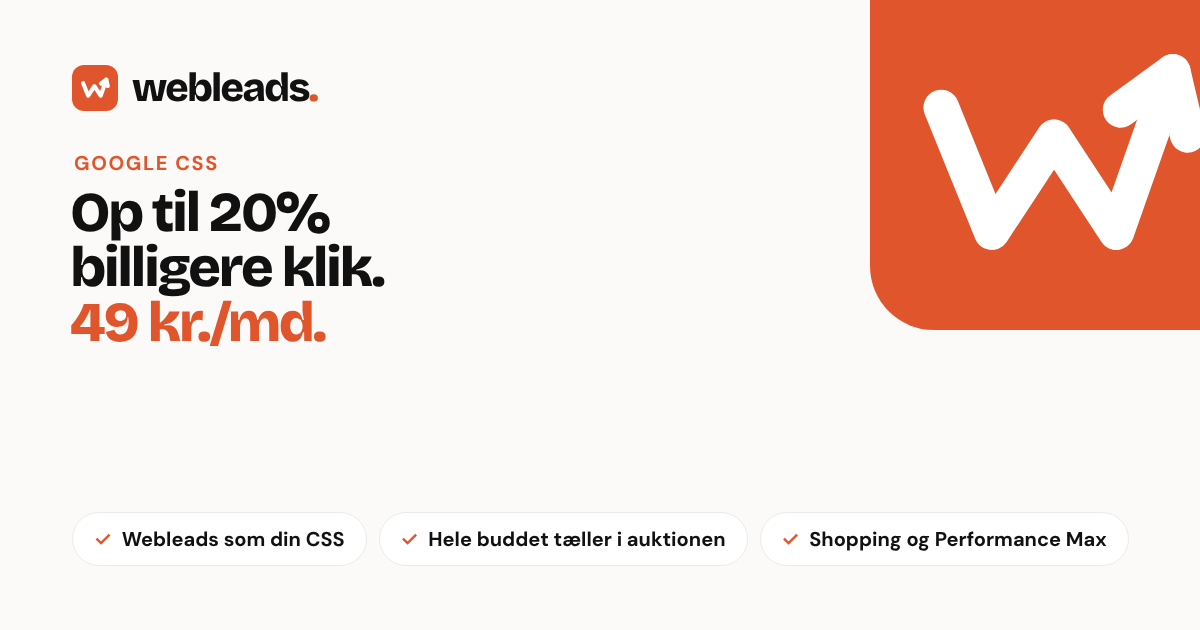
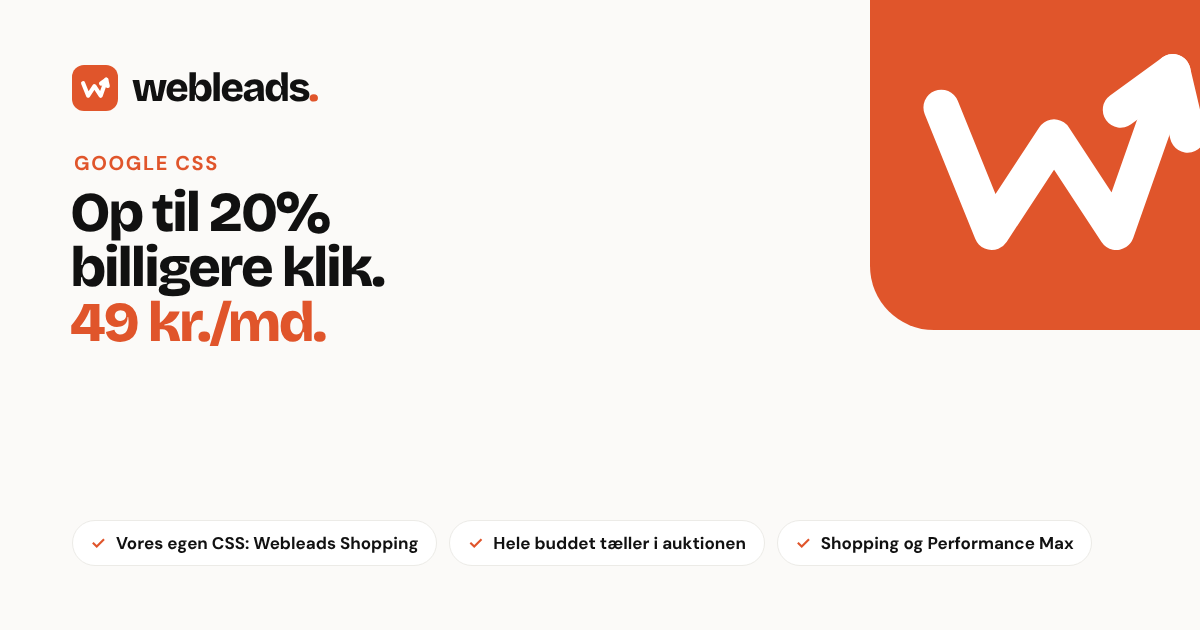
Google CSS: vores egen CSS hedder Webleads Shopping (shopping.webleads.dk)
- Annoncen viser »Af Webleads Shopping«, og knappen hedder »Webleads Shopping«.
- Teksterne siger »vores egen CSS, Webleads Shopping«. Spørgsmålet »Hvad er en CSS?« linker til shopping.webleads.dk.
- Kort, bold, Shopping-siden, delingsbillede og README er opdateret.

Claude-Session: https://claude.ai/code/session_01R47vFHCEwp4wD7wmtL9Xui

Changed region(s): [[0.0617, 0.8444, 0.6167, 0.8746], [0.6475, 0.8444, 0.925, 0.8746]]

diff --git a/services/google-css/index.html b/services/google-css/index.html
@@ -5,13 +5,13 @@
 <meta charset="utf-8">
 <meta name="viewport" content="width=device-width, initial-scale=1">
 <title>Google CSS · Op til 20% billigere klik på Google Shopping · Webleads</title>
-<meta name="description" content="Lad dine Google Shopping-annoncer gå gennem Webleads som CSS i stedet for Googles egen. Så tæller hele dit bud, og klikket kan blive op til 20% billigere. 49 kr. om måneden.">
+<meta name="description" content="Lad dine Google Shopping-annoncer gå gennem vores egen CSS, Webleads Shopping, i stedet for Googles egen. Så tæller hele dit bud, og klikket kan blive op til 20% billigere. 49 kr. om måneden.">
 <meta name="robots" content="index, follow, max-image-preview:large, max-snippet:-1">
 <meta name="author" content="Webleads">
 <meta name="theme-color" content="#fbfaf8">
 <!-- Share links (Facebook, LinkedIn, Messenger, SMS, Slack, X) -->
 <meta property="og:title" content="Google CSS · Op til 20% billigere klik på Google Shopping · Webleads">
-<meta property="og:description" content="Lad dine Google Shopping-annoncer gå gennem Webleads som CSS i stedet for Googles egen. Så tæller hele dit bud, og klikket kan blive op til 20% billigere. 49 kr. om måneden.">
+<meta property="og:description" content="Lad dine Google Shopping-annoncer gå gennem vores egen CSS, Webleads Shopping, i stedet for Googles egen. Så tæller hele dit bud, og klikket kan blive op til 20% billigere. 49 kr. om måneden.">
 <meta property="og:type" content="website">
 <meta property="og:locale" content="da_DK">
 <meta property="og:url" content="https://webleads.dk/services/google-css">
@@ -24,7 +24,7 @@
 <meta property="og:image:alt" content="Webleads: Google CSS. Op til 20% billigere klik på Google Shopping.">
 <meta name="twitter:card" content="summary_large_image">
 <meta name="twitter:title" content="Google CSS · Op til 20% billigere klik på Google Shopping · Webleads">
-<meta name="twitter:description" content="Lad dine Google Shopping-annoncer gå gennem Webleads som CSS i stedet for Googles egen. Så tæller hele dit bud, og klikket kan blive op til 20% billigere. 49 kr. om måneden.">
+<meta name="twitter:description" content="Lad dine Google Shopping-annoncer gå gennem vores egen CSS, Webleads Shopping, i stedet for Googles egen. Så tæller hele dit bud, og klikket kan blive op til 20% billigere. 49 kr. om måneden.">
 <meta name="twitter:image" content="https://webleads.dk/assets/og/google-css.png">
 <meta name="twitter:image:alt" content="Webleads: Google CSS. Op til 20% billigere klik på Google Shopping.">
 <link rel="canonical" href="https://webleads.dk/services/google-css">
@@ -50,7 +50,7 @@
       "@id": "https://webleads.dk/services/google-css#service",
       "name": "Google CSS",
       "serviceType": "CSS (Comparison Shopping Service) til Google Shopping",
-      "description": "Lad dine Google Shopping-annoncer gå gennem Webleads som CSS i stedet for Googles egen. Så tæller hele dit bud, og klikket kan blive op til 20% billigere. 49 kr. om måneden.",
+      "description": "Lad dine Google Shopping-annoncer gå gennem vores egen CSS, Webleads Shopping, i stedet for Googles egen. Så tæller hele dit bud, og klikket kan blive op til 20% billigere. 49 kr. om måneden.",
       "url": "https://webleads.dk/services/google-css",
       "provider": {
         "@id": "https://webleads.dk/#virksomhed"
@@ -119,7 +119,7 @@
           "name": "Hvad er en CSS?",
           "acceptedAnswer": {
             "@type": "Answer",
-            "text": "CSS står for Comparison Shopping Service, på dansk en prissammenligningstjeneste. Efter EU’s sag mod Google i 2017 bliver Shopping-annoncer i Danmark altid vist gennem en CSS. Har du ikke valgt en anden, er det Googles egen, Google Shopping. Webleads er en CSS, du kan vælge i stedet."
+            "text": "CSS står for Comparison Shopping Service, på dansk en prissammenligningstjeneste. Efter EU’s sag mod Google i 2017 bliver Shopping-annoncer i Danmark altid vist gennem en CSS. Har du ikke valgt en anden, er det Googles egen, Google Shopping. Webleads har sin egen CSS, Webleads Shopping, som du kan vælge i stedet."
           }
         },
         {
@@ -127,7 +127,7 @@
           "name": "Hvorfor bliver klikket billigere?",
           "acceptedAnswer": {
             "@type": "Answer",
-            "text": "Googles egen CSS, Google Shopping, trækker en fast procentdel fra dit bud, før det kommer med i auktionen. Med Webleads som CSS tæller hele buddet, så det samme klik kan blive billigere, eller du kan få flere klik for samme budget. Google oplyser ikke procentdelen, men branchen anslår den til op til ca. 20%."
+            "text": "Googles egen CSS, Google Shopping, trækker en fast procentdel fra dit bud, før det kommer med i auktionen. Med Webleads Shopping tæller hele buddet, så det samme klik kan blive billigere, eller du kan få flere klik for samme budget. Google oplyser ikke procentdelen, men branchen anslår den til op til ca. 20%."
           }
         },
         {
@@ -135,7 +135,7 @@
           "name": "Skal jeg lave mine kampagner om?",
           "acceptedAnswer": {
             "@type": "Answer",
-            "text": "Som regel ikke. Vi kobler den Merchant Center-konto, du har i dag, på Webleads som CSS, så din Google Ads-konto, dine kampagner og dit feed er de samme. Kræver det en ny konto, siger vi det, før vi går i gang."
+            "text": "Som regel ikke. Vi kobler den Merchant Center-konto, du har i dag, på Webleads Shopping, så din Google Ads-konto, dine kampagner og dit feed er de samme. Kræver det en ny konto, siger vi det, før vi går i gang."
           }
         },
         {
@@ -221,7 +221,7 @@
   <main>
     <section id="top" class="hero" data-sec="hero">
       <canvas class="hero__dots" data-dots aria-hidden="true"></canvas>
-      <div class="float float--a" data-float="1.4" data-rot="7" aria-hidden="true">Af Webleads</div>
+      <div class="float float--a" data-float="1.4" data-rot="7" aria-hidden="true">Af Webleads Shopping</div>
       <div class="float float--b" data-float="0.8" data-rot="-6" aria-hidden="true"><i></i>Hele buddet tæller</div>
       <div class="float float--c" data-float="2" data-rot="-9" aria-hidden="true">49 kr./md.</div>
       <div class="float float--d" data-float="1.1" data-rot="0" aria-hidden="true">
@@ -240,7 +240,7 @@
           <span class="w"><span data-word class="dim">billigere</span></span>
           <span class="w"><span data-word class="hot"><span data-underline>klik.</span></span></span>
         </h1>
-        <p class="hero__lead" data-reveal="3">Lad dine Shopping-annoncer gå gennem Webleads som CSS i stedet for Googles egen. Så tæller hele dit bud i auktionen, og det samme klik kan blive op til 20% billigere. Vi klarer skiftet.</p>
+        <p class="hero__lead" data-reveal="3">Lad dine Shopping-annoncer gå gennem vores egen CSS, Webleads Shopping, i stedet for Googles egen. Så tæller hele dit bud i auktionen, og det samme klik kan blive op til 20% billigere. Vi klarer skiftet.</p>
         <div class="hero__ctas" data-reveal="4">
           <a href="#kontakt" class="btn btn--dark" data-magnet data-burst data-roll data-event="Hero: Få en fast pris">Få en fast pris</a>
           <a href="#eksempel" class="hero__more" data-event="Hero: Se et eksempel">Se et eksempel <span>↓</span></a>
@@ -261,7 +261,7 @@
 
     <section id="eksempel" class="show show--google-css" data-sec="eksempel">
       <!-- Calculator: the same Shopping ad with and without a CSS partner. Click prices in øre (data-p0 without,
-           data-p1 with); google-css.js works out the rest. The HTML is the finished state ("Med Webleads") -->
+           data-p1 with); google-css.js works out the rest. The HTML is the finished state ("Webleads Shopping") -->
       <div class="gcss is-med" data-gcss data-p0="500" data-p1="400">
         <div class="gcss__main">
           <div class="sec-head gcss__head" data-reveal="0">
@@ -269,7 +269,7 @@
             <p class="sec-head__lead">Annoncen ser ud som i dag. Kun den lille tekst under den skifter, og det samme klik kan blive op til 20% billigere.</p>
           </div>
           <div class="gcss__stage" data-reveal="1">
-            <p class="sr-only">Eksempel på Shopping-annoncer på Google, når en kunde søger efter »duftlys i glas«. Din annonce for et duftlys fra Glødværk står først. Under den står der »Af Google«. Med Webleads som CSS står der »Af Webleads« i stedet, og resten af annoncen er den samme.</p>
+            <p class="sr-only">Eksempel på Shopping-annoncer på Google, når en kunde søger efter »duftlys i glas«. Din annonce for et duftlys fra Glødværk står først. Under den står der »Af Google«. Med Webleads Shopping står der »Af Webleads Shopping« i stedet, og resten af annoncen er den samme.</p>
             <!-- A drawing of a search page with Shopping ads: no search engine's logo, the products and shops are made up -->
             <div class="gcss-serp" data-tilt aria-hidden="true">
               <div class="glare" data-glare></div>
@@ -289,7 +289,7 @@
                     <div class="gcss-card__s"><i style="--i:#8a5a2b">G</i><span>Glødværk</span></div>
                     <div class="gcss-card__d">Gratis fragt</div>
                     <div class="gcss-card__r"><b>4,8</b><span style="--f:96%">★★★★★</span>(63)</div>
-                    <span class="gcss-by" data-gcss-by><span class="gcss-by__in"><span class="gcss-by__f">Af Google</span><span class="gcss-by__b">Af Webleads</span></span></span>
+                    <span class="gcss-by" data-gcss-by><span class="gcss-by__in"><span class="gcss-by__f">Af Google</span><span class="gcss-by__b">Af Webleads Shopping</span></span></span>
                   </div>
                   <div class="gcss-card">
                     <div class="gcss-img"><svg viewBox="0 0 200 200"><use href="#gcss-bd"/><g transform="matrix(1.18 0 0 1.18 -18 -21.6)"><use href="#gcss-jar" style="--gl:#c9d3cf;--ga:.3;--wx:#b8c6aa;--wt:#c9d5bc;--lb:#fbfaf6"/><text x="100" y="128" style="fill:#3c4a3a">SKOVBUND</text><text x="100" y="138" style="fill:#6b7869">EUKALYPTUS</text></g></svg></div>
@@ -330,10 +330,10 @@
 
         <div class="gcss__calc" data-reveal="2">
           <div class="gcss-panel">
-            <div class="seg gcss-seg" role="radiogroup" aria-label="Klikpris med Googles egen CSS eller med Webleads som CSS" data-gcss-seg>
+            <div class="seg gcss-seg" role="radiogroup" aria-label="Klikpris med Googles egen CSS eller med Webleads Shopping" data-gcss-seg>
               <span class="gcss-seg__pill" aria-hidden="true"></span>
               <button type="button" role="radio" aria-checked="false" tabindex="-1" data-gcss-mode="uden"><span>Googles egen</span></button>
-              <button type="button" role="radio" aria-checked="true" tabindex="0" data-gcss-mode="med"><span>Med Webleads</span></button>
+              <button type="button" role="radio" aria-checked="true" tabindex="0" data-gcss-mode="med"><span>Webleads Shopping</span></button>
             </div>
             <div class="gcss-meter" aria-hidden="true">
               <div class="gcss-meter__top"><span class="gcss-meter__lbl">Pris pr. klik</span><span class="tag-eks">Eksempel</span></div>
@@ -342,7 +342,7 @@
                 <span class="gcss-sticker" data-gcss-sticker><i></i><b>−20%</b></span>
               </div>
             </div>
-            <p class="gcss-why">Googles egen CSS trækker en margin fra dit bud, før det kommer med i auktionen. Med Webleads som CSS tæller hele buddet.</p>
+            <p class="gcss-why">Googles egen CSS trækker en margin fra dit bud, før det kommer med i auktionen. Med Webleads Shopping tæller hele buddet.</p>
             <div class="gcss-budget">
               <div class="gcss-budget__row"><label for="gcss-budget">Dit Shopping-budget om måneden</label><b data-gcss-bv aria-hidden="true">10.000 kr.</b></div>
               <div class="gcss-rail" data-gcss-rail><input class="gcss-range" type="range" id="gcss-budget" min="0" max="48" step="1" value="16" aria-valuetext="10.000 kr." data-gcss-range></div>
@@ -358,8 +358,8 @@
                 <span class="gcss-res__val"><span class="gcss-res__u">op til</span><b class="gcss-res__now" data-gcss-save>2.000 kr.</b><span class="gcss-res__u">sparet om måneden</span></span>
               </div>
             </div>
-            <p class="sr-only" data-gcss-live>Med Webleads som CSS: 4,00 kr. pr. klik i stedet for 5,00 kr. Med et budget på 10.000 kr. om måneden giver det op til 2.500 klik i stedet for 2.000, eller op til 2.000 kr. sparet om måneden for de samme klik.</p>
-            <p class="gcss-fine">Eksempel: klikpris 5,00 kr. uden og 4,00 kr. med Webleads som CSS, hvis margenen hos Googles egen CSS er ca. 20%. Google oplyser ikke marginens størrelse; 20% er branchens skøn. Hvor meget du får ud af det, afhænger af auktionen.</p>
+            <p class="sr-only" data-gcss-live>Med Webleads Shopping: 4,00 kr. pr. klik i stedet for 5,00 kr. Med et budget på 10.000 kr. om måneden giver det op til 2.500 klik i stedet for 2.000, eller op til 2.000 kr. sparet om måneden for de samme klik.</p>
+            <p class="gcss-fine">Eksempel: klikpris 5,00 kr. uden og 4,00 kr. med Webleads Shopping, hvis margenen hos Googles egen CSS er ca. 20%. Google oplyser ikke marginens størrelse; 20% er branchens skøn. Hvor meget du får ud af det, afhænger af auktionen.</p>
           </div>
         </div>
       </div>
@@ -402,9 +402,9 @@
         </div>
         <div class="sx-vs__side">
           <p class="sec-head__lead">Det eneste, der skifter, er den CSS, dine annoncer bliver vist gennem.</p>
-          <div class="seg sx-vs__seg" role="group" aria-label="Vis med googles egen css eller med webleads som css">
+          <div class="seg sx-vs__seg" role="group" aria-label="Vis med googles egen css eller med webleads shopping">
             <button type="button" data-vs-go="uden" aria-pressed="false">Med Googles egen CSS</button>
-            <button type="button" data-vs-go="med" class="is-on" aria-pressed="true">Med Webleads som CSS</button>
+            <button type="button" data-vs-go="med" class="is-on" aria-pressed="true">Med Webleads Shopping</button>
           </div>
         </div>
       </div>
@@ -412,15 +412,15 @@
         <div class="sx-vs__bg is-uden" aria-hidden="true"></div>
         <div class="sx-vs__bg is-med" aria-hidden="true"></div>
         <div class="sx-vs__head is-uden" style="grid-row:1;--i:0"><span class="sx-vs__mk" aria-hidden="true">✕</span>Med Googles egen CSS</div>
-        <div class="sx-vs__head is-med" style="grid-row:1;--i:1"><img src="/assets/logo-icon.svg" alt="" width="28" height="28">Med Webleads som CSS</div>
+        <div class="sx-vs__head is-med" style="grid-row:1;--i:1"><img src="/assets/logo-icon.svg" alt="" width="28" height="28">Med Webleads Shopping</div>
         <div class="sx-vs__cell is-uden" style="grid-row:2;--i:2"><span class="sx-vs__mk" aria-hidden="true">✕</span><span><span class="sr-only">Med Googles egen CSS: </span>Googles egen CSS trækker en margin fra dit bud, før det kommer med i auktionen.</span></div>
-        <div class="sx-vs__cell is-med" style="grid-row:2;--i:3"><span class="sx-vs__mk" aria-hidden="true">✓</span><span><span class="sr-only">Med Webleads som CSS: </span>Med Webleads som CSS tæller hele buddet.</span></div>
+        <div class="sx-vs__cell is-med" style="grid-row:2;--i:3"><span class="sx-vs__mk" aria-hidden="true">✓</span><span><span class="sr-only">Med Webleads Shopping: </span>Med Webleads Shopping tæller hele buddet.</span></div>
         <div class="sx-vs__cell is-uden" style="grid-row:3;--i:4"><span class="sx-vs__mk" aria-hidden="true">✕</span><span><span class="sr-only">Med Googles egen CSS: </span>Marginen er med i hvert eneste klik.</span></div>
-        <div class="sx-vs__cell is-med" style="grid-row:3;--i:5"><span class="sx-vs__mk" aria-hidden="true">✓</span><span><span class="sr-only">Med Webleads som CSS: </span>Det samme klik kan koste op til 20% mindre. Google oplyser ikke marginens størrelse; 20% er branchens skøn.</span></div>
+        <div class="sx-vs__cell is-med" style="grid-row:3;--i:5"><span class="sx-vs__mk" aria-hidden="true">✓</span><span><span class="sr-only">Med Webleads Shopping: </span>Det samme klik kan koste op til 20% mindre. Google oplyser ikke marginens størrelse; 20% er branchens skøn.</span></div>
         <div class="sx-vs__cell is-uden" style="grid-row:4;--i:6"><span class="sx-vs__mk" aria-hidden="true">✕</span><span><span class="sr-only">Med Googles egen CSS: </span>Et skifte lyder som et stort arbejde.</span></div>
-        <div class="sx-vs__cell is-med" style="grid-row:4;--i:7"><span class="sx-vs__mk" aria-hidden="true">✓</span><span><span class="sr-only">Med Webleads som CSS: </span>Vi klarer skiftet. Som regel kører dine kampagner videre.</span></div>
+        <div class="sx-vs__cell is-med" style="grid-row:4;--i:7"><span class="sx-vs__mk" aria-hidden="true">✓</span><span><span class="sr-only">Med Webleads Shopping: </span>Vi klarer skiftet. Som regel kører dine kampagner videre.</span></div>
         <div class="sx-vs__cell is-uden" style="grid-row:5;--i:8"><span class="sx-vs__mk" aria-hidden="true">✕</span><span><span class="sr-only">Med Googles egen CSS: </span>Du ved ikke, hvad du kunne spare.</span></div>
-        <div class="sx-vs__cell is-med" style="grid-row:5;--i:9"><span class="sx-vs__mk" aria-hidden="true">✓</span><span><span class="sr-only">Med Webleads som CSS: </span>Vi måler klikpriserne før og efter.</span></div>
+        <div class="sx-vs__cell is-med" style="grid-row:5;--i:9"><span class="sx-vs__mk" aria-hidden="true">✓</span><span><span class="sr-only">Med Webleads Shopping: </span>Vi måler klikpriserne før og efter.</span></div>
       </div>
     </section>
 
@@ -434,12 +434,12 @@
         </div>
         <div class="sx-band__body">
           <h2 class="sx-band__h">49 kr. om måneden. <span>Hele buddet tæller.</span></h2>
-          <p class="sx-band__lead">Du betaler 49 kr. om måneden for at have Webleads som CSS. Vi klarer skiftet, og dit annoncebudget betaler du som i dag direkte til Google.</p>
+          <p class="sx-band__lead">Du betaler 49 kr. om måneden for at bruge Webleads Shopping som CSS. Vi klarer skiftet, og dit annoncebudget betaler du som i dag direkte til Google.</p>
           <ul class="sx-band__chips">
             <li class="sx-chip" style="--i:0"><span class="check" aria-hidden="true">✓</span>Samme annoncer</li>
             <li class="sx-chip" style="--i:1"><span class="check" aria-hidden="true">✓</span>Shopping og Performance Max</li>
             <li class="sx-chip" style="--i:2"><span class="check" aria-hidden="true">✓</span>Måling før og efter</li>
-            <li class="sx-chip" style="--i:3"><span class="check" aria-hidden="true">✓</span>Af Webleads</li>
+            <li class="sx-chip" style="--i:3"><span class="check" aria-hidden="true">✓</span>Af Webleads Shopping</li>
             <li style="--i:4"><button type="button" class="sx-chip sx-chip--more" data-band-more aria-expanded="false" aria-controls="sx-band-all">Se alt, der er med <span aria-hidden="true">+</span></button></li>
           </ul>
           <div class="sx-band__all" id="sx-band-all" data-band-all><div><ul>
@@ -462,15 +462,15 @@
       <div class="faq__list" data-faq>
         <div class="faq__item is-open" data-reveal="0">
           <button type="button" class="faq__q" aria-expanded="true" aria-controls="faq-0">Hvad er en CSS?<span class="faq__icon" aria-hidden="true">+</span></button>
-          <div class="faq__a" id="faq-0"><div><p>CSS står for Comparison Shopping Service, på dansk en prissammenligningstjeneste. Efter EU’s sag mod Google i 2017 bliver Shopping-annoncer i Danmark altid vist gennem en CSS. Har du ikke valgt en anden, er det Googles egen, Google Shopping. Webleads er en CSS, du kan vælge i stedet.</p></div></div>
+          <div class="faq__a" id="faq-0"><div><p>CSS står for Comparison Shopping Service, på dansk en prissammenligningstjeneste. Efter EU’s sag mod Google i 2017 bliver Shopping-annoncer i Danmark altid vist gennem en CSS. Har du ikke valgt en anden, er det Googles egen, Google Shopping. Webleads har sin egen CSS, Webleads Shopping, som du kan vælge i stedet. <a class="faq__more" href="https://shopping.webleads.dk" data-event="Spørgsmål: Se Webleads Shopping">Se Webleads Shopping →</a></p></div></div>
         </div>
         <div class="faq__item" data-reveal="1">
           <button type="button" class="faq__q" aria-expanded="false" aria-controls="faq-1">Hvorfor bliver klikket billigere?<span class="faq__icon" aria-hidden="true">+</span></button>
-          <div class="faq__a" id="faq-1"><div><p>Googles egen CSS, Google Shopping, trækker en fast procentdel fra dit bud, før det kommer med i auktionen. Med Webleads som CSS tæller hele buddet, så det samme klik kan blive billigere, eller du kan få flere klik for samme budget. Google oplyser ikke procentdelen, men branchen anslår den til op til ca. 20%.</p></div></div>
+          <div class="faq__a" id="faq-1"><div><p>Googles egen CSS, Google Shopping, trækker en fast procentdel fra dit bud, før det kommer med i auktionen. Med Webleads Shopping tæller hele buddet, så det samme klik kan blive billigere, eller du kan få flere klik for samme budget. Google oplyser ikke procentdelen, men branchen anslår den til op til ca. 20%.</p></div></div>
         </div>
         <div class="faq__item" data-reveal="2">
           <button type="button" class="faq__q" aria-expanded="false" aria-controls="faq-2">Skal jeg lave mine kampagner om?<span class="faq__icon" aria-hidden="true">+</span></button>
-          <div class="faq__a" id="faq-2"><div><p>Som regel ikke. Vi kobler den Merchant Center-konto, du har i dag, på Webleads som CSS, så din Google Ads-konto, dine kampagner og dit feed er de samme. Kræver det en ny konto, siger vi det, før vi går i gang.</p></div></div>
+          <div class="faq__a" id="faq-2"><div><p>Som regel ikke. Vi kobler den Merchant Center-konto, du har i dag, på Webleads Shopping, så din Google Ads-konto, dine kampagner og dit feed er de samme. Kræver det en ny konto, siger vi det, før vi går i gang.</p></div></div>
         </div>
         <div class="faq__item" data-reveal="3">
           <button type="button" class="faq__q" aria-expanded="false" aria-controls="faq-3">Hvilke annoncer gælder det?<span class="faq__icon" aria-hidden="true">+</span></button>

diff --git a/scripts/services/showcase/google-css.html b/scripts/services/showcase/google-css.html
@@ -1,6 +1,6 @@
 <section id="eksempel" class="show show--google-css" data-sec="eksempel">
       <!-- Calculator: the same Shopping ad with and without a CSS partner. Click prices in øre (data-p0 without,
-           data-p1 with); google-css.js works out the rest. The HTML is the finished state ("Med Webleads") -->
+           data-p1 with); google-css.js works out the rest. The HTML is the finished state ("Webleads Shopping") -->
       <div class="gcss is-med" data-gcss data-p0="500" data-p1="400">
         <div class="gcss__main">
           <div class="sec-head gcss__head" data-reveal="0">
@@ -8,7 +8,7 @@
             <p class="sec-head__lead">Annoncen ser ud som i dag. Kun den lille tekst under den skifter, og det samme klik kan blive op til 20% billigere.</p>
           </div>
           <div class="gcss__stage" data-reveal="1">
-            <p class="sr-only">Eksempel på Shopping-annoncer på Google, når en kunde søger efter »duftlys i glas«. Din annonce for et duftlys fra Glødværk står først. Under den står der »Af Google«. Med Webleads som CSS står der »Af Webleads« i stedet, og resten af annoncen er den samme.</p>
+            <p class="sr-only">Eksempel på Shopping-annoncer på Google, når en kunde søger efter »duftlys i glas«. Din annonce for et duftlys fra Glødværk står først. Under den står der »Af Google«. Med Webleads Shopping står der »Af Webleads Shopping« i stedet, og resten af annoncen er den samme.</p>
             <!-- A drawing of a search page with Shopping ads: no search engine's logo, the products and shops are made up -->
             <div class="gcss-serp" data-tilt aria-hidden="true">
               <div class="glare" data-glare></div>
@@ -28,7 +28,7 @@
                     <div class="gcss-card__s"><i style="--i:#8a5a2b">G</i><span>Glødværk</span></div>
                     <div class="gcss-card__d">Gratis fragt</div>
                     <div class="gcss-card__r"><b>4,8</b><span style="--f:96%">★★★★★</span>(63)</div>
-                    <span class="gcss-by" data-gcss-by><span class="gcss-by__in"><span class="gcss-by__f">Af Google</span><span class="gcss-by__b">Af Webleads</span></span></span>
+                    <span class="gcss-by" data-gcss-by><span class="gcss-by__in"><span class="gcss-by__f">Af Google</span><span class="gcss-by__b">Af Webleads Shopping</span></span></span>
                   </div>
                   <div class="gcss-card">
                     <div class="gcss-img"><svg viewBox="0 0 200 200"><use href="#gcss-bd"/><g transform="matrix(1.18 0 0 1.18 -18 -21.6)"><use href="#gcss-jar" style="--gl:#c9d3cf;--ga:.3;--wx:#b8c6aa;--wt:#c9d5bc;--lb:#fbfaf6"/><text x="100" y="128" style="fill:#3c4a3a">SKOVBUND</text><text x="100" y="138" style="fill:#6b7869">EUKALYPTUS</text></g></svg></div>
@@ -69,10 +69,10 @@
 
         <div class="gcss__calc" data-reveal="2">
           <div class="gcss-panel">
-            <div class="seg gcss-seg" role="radiogroup" aria-label="Klikpris med Googles egen CSS eller med Webleads som CSS" data-gcss-seg>
+            <div class="seg gcss-seg" role="radiogroup" aria-label="Klikpris med Googles egen CSS eller med Webleads Shopping" data-gcss-seg>
               <span class="gcss-seg__pill" aria-hidden="true"></span>
               <button type="button" role="radio" aria-checked="false" tabindex="-1" data-gcss-mode="uden"><span>Googles egen</span></button>
-              <button type="button" role="radio" aria-checked="true" tabindex="0" data-gcss-mode="med"><span>Med Webleads</span></button>
+              <button type="button" role="radio" aria-checked="true" tabindex="0" data-gcss-mode="med"><span>Webleads Shopping</span></button>
             </div>
             <div class="gcss-meter" aria-hidden="true">
               <div class="gcss-meter__top"><span class="gcss-meter__lbl">Pris pr. klik</span><span class="tag-eks">Eksempel</span></div>
@@ -81,7 +81,7 @@
                 <span class="gcss-sticker" data-gcss-sticker><i></i><b>−20%</b></span>
               </div>
             </div>
-            <p class="gcss-why">Googles egen CSS trækker en margin fra dit bud, før det kommer med i auktionen. Med Webleads som CSS tæller hele buddet.</p>
+            <p class="gcss-why">Googles egen CSS trækker en margin fra dit bud, før det kommer med i auktionen. Med Webleads Shopping tæller hele buddet.</p>
             <div class="gcss-budget">
               <div class="gcss-budget__row"><label for="gcss-budget">Dit Shopping-budget om måneden</label><b data-gcss-bv aria-hidden="true">10.000 kr.</b></div>
               <div class="gcss-rail" data-gcss-rail><input class="gcss-range" type="range" id="gcss-budget" min="0" max="48" step="1" value="16" aria-valuetext="10.000 kr." data-gcss-range></div>
@@ -97,8 +97,8 @@
                 <span class="gcss-res__val"><span class="gcss-res__u">op til</span><b class="gcss-res__now" data-gcss-save>2.000 kr.</b><span class="gcss-res__u">sparet om måneden</span></span>
               </div>
             </div>
-            <p class="sr-only" data-gcss-live>Med Webleads som CSS: 4,00 kr. pr. klik i stedet for 5,00 kr. Med et budget på 10.000 kr. om måneden giver det op til 2.500 klik i stedet for 2.000, eller op til 2.000 kr. sparet om måneden for de samme klik.</p>
-            <p class="gcss-fine">Eksempel: klikpris 5,00 kr. uden og 4,00 kr. med Webleads som CSS, hvis margenen hos Googles egen CSS er ca. 20%. Google oplyser ikke marginens størrelse; 20% er branchens skøn. Hvor meget du får ud af det, afhænger af auktionen.</p>
+            <p class="sr-only" data-gcss-live>Med Webleads Shopping: 4,00 kr. pr. klik i stedet for 5,00 kr. Med et budget på 10.000 kr. om måneden giver det op til 2.500 klik i stedet for 2.000, eller op til 2.000 kr. sparet om måneden for de samme klik.</p>
+            <p class="gcss-fine">Eksempel: klikpris 5,00 kr. uden og 4,00 kr. med Webleads Shopping, hvis margenen hos Googles egen CSS er ca. 20%. Google oplyser ikke marginens størrelse; 20% er branchens skøn. Hvor meget du får ud af det, afhænger af auktionen.</p>
           </div>
         </div>
       </div>

diff --git a/services/google-shopping-ads/index.html b/services/google-shopping-ads/index.html
@@ -151,7 +151,7 @@
           "name": "Kan klikket blive billigere?",
           "acceptedAnswer": {
             "@type": "Answer",
-            "text": "Ofte, ja. Går dine Shopping-annoncer gennem Webleads som CSS i stedet for Googles egen CSS, tæller hele dit bud i auktionen, og klikket kan blive op til ca. 20% billigere. Google oplyser ikke marginens størrelse; 20% er branchens skøn."
+            "text": "Ofte, ja. Går dine Shopping-annoncer gennem vores egen CSS, Webleads Shopping, i stedet for Googles egen CSS, tæller hele dit bud i auktionen, og klikket kan blive op til ca. 20% billigere. Google oplyser ikke marginens størrelse; 20% er branchens skøn."
           }
         }
       ]
@@ -587,7 +587,7 @@
         </div>
         <div class="faq__item" data-reveal="4">
           <button type="button" class="faq__q" aria-expanded="false" aria-controls="faq-4">Kan klikket blive billigere?<span class="faq__icon" aria-hidden="true">+</span></button>
-          <div class="faq__a" id="faq-4"><div><p>Ofte, ja. Går dine Shopping-annoncer gennem Webleads som CSS i stedet for Googles egen CSS, tæller hele dit bud i auktionen, og klikket kan blive op til ca. 20% billigere. Google oplyser ikke marginens størrelse; 20% er branchens skøn. <a class="faq__more" href="/services/google-css" data-event="Spørgsmål: Læs om Google CSS">Læs om Google CSS →</a></p></div></div>
+          <div class="faq__a" id="faq-4"><div><p>Ofte, ja. Går dine Shopping-annoncer gennem vores egen CSS, Webleads Shopping, i stedet for Googles egen CSS, tæller hele dit bud i auktionen, og klikket kan blive op til ca. 20% billigere. Google oplyser ikke marginens størrelse; 20% er branchens skøn. <a class="faq__more" href="/services/google-css" data-event="Spørgsmål: Læs om Google CSS">Læs om Google CSS →</a></p></div></div>
         </div>
       </div>
     </section>
@@ -661,7 +661,7 @@
               <span class="addon__n">05</span>
               <div class="addon__head"><h3>Google CSS</h3><p>Op til 20% billigere klik på dine Google Shopping-annoncer.</p></div>
               <div class="addon__price">49 kr./md.</div>
-              <ul><li><span class="check" aria-hidden="true">✓</span>Webleads som din CSS</li><li><span class="check" aria-hidden="true">✓</span>Hele buddet tæller i auktionen</li><li><span class="check" aria-hidden="true">✓</span>Shopping og Performance Max</li></ul>
+              <ul><li><span class="check" aria-hidden="true">✓</span>Vores egen CSS: Webleads Shopping</li><li><span class="check" aria-hidden="true">✓</span>Hele buddet tæller i auktionen</li><li><span class="check" aria-hidden="true">✓</span>Shopping og Performance Max</li></ul>
               <div class="addon__actions">
                 <button type="button" class="addon__toggle" data-toggle="Google CSS" data-burst aria-pressed="false">+ Tilføj</button>
                 <a class="addon__more" href="/services/google-css" aria-label="Læs mere om Google CSS" data-event="Services: Google CSS">Læs mere →</a>

diff --git a/assets/js/show/google-css.js b/assets/js/show/google-css.js
@@ -1,5 +1,5 @@
 // Google CSS showcase (/services/google-css): a calculator. The same Shopping ad with and without a CSS
-// partner: the small "Af Google" on the card turns over to "Af Webleads", the click price rolls down and
+// partner: the small "Af Google" on the card turns over to "Af Webleads Shopping", the click price rolls down and
 // a −20% sticker lands on it, and a budget slider shows what that means in clicks or kroner.
 // With motion it starts on "Uden CSS" and flips by itself once when the price and the card are in view,
 // unless the visitor has already chosen. Without motion it shows the finished state and switches instantly.
@@ -87,13 +87,13 @@ function init(root) {
     liveT = setTimeout(() => {
       const r = calc();
       put(liveEl, med
-        ? `Med Webleads som CSS: ${kr(P1)} kr. pr. klik i stedet for ${kr(P0)} kr. Med et budget på ${dot(r.b)} kr. om måneden giver det op til ${dot(r.k1)} klik i stedet for ${dot(r.k0)}, eller op til ${dot(r.s)} kr. sparet om måneden for de samme klik.`
-        : `Med Googles egen CSS: ${kr(P0)} kr. pr. klik. Med et budget på ${dot(r.b)} kr. om måneden giver det ${dot(r.k0)} klik. Med Webleads som CSS kunne det blive op til ${dot(r.k1)} klik, eller op til ${dot(r.s)} kr. sparet om måneden.`);
+        ? `Med Webleads Shopping: ${kr(P1)} kr. pr. klik i stedet for ${kr(P0)} kr. Med et budget på ${dot(r.b)} kr. om måneden giver det op til ${dot(r.k1)} klik i stedet for ${dot(r.k0)}, eller op til ${dot(r.s)} kr. sparet om måneden for de samme klik.`
+        : `Med Googles egen CSS: ${kr(P0)} kr. pr. klik. Med et budget på ${dot(r.b)} kr. om måneden giver det ${dot(r.k0)} klik. Med Webleads Shopping kunne det blive op til ${dot(r.k1)} klik, eller op til ${dot(r.s)} kr. sparet om måneden.`);
     }, 450);
   };
   const heard = () => liveEl.setAttribute('aria-live', 'polite');
 
-  /* ---------- Uden CSS / Med Webleads ---------- */
+  /* ---------- Googles egen / Webleads Shopping ---------- */
   const btns = $$('[data-gcss-mode]'), seg = $('[data-gcss-seg]'), sticker = $('[data-gcss-sticker]'), num = $('[data-gcss-num]');
   let med = true, landT = 0, bumpT = 0, flipT = 0;
   // chose: the visitor has touched the switch, so the automatic flip never happens; done: it has happened
@@ -103,7 +103,7 @@ function init(root) {
     btns.forEach(b => { const on = (b.dataset.gcssMode === 'med') === med; b.setAttribute('aria-checked', String(on)); b.tabIndex = on ? 0 : -1; });
     roll(med, animate);
     clearTimeout(landT); clearTimeout(bumpT); clearTimeout(flipT);
-    // The label on the card gives a small ping as it lands on "Af Webleads"
+    // The label on the card gives a small ping as it lands on "Af Webleads Shopping"
     box.classList.remove('is-flip');
     if (med && animate) { void box.offsetWidth; box.classList.add('is-flip'); flipT = setTimeout(() => box.classList.remove('is-flip'), 1600); }
     sticker.classList.remove('is-land');

diff --git a/index.html b/index.html
@@ -551,7 +551,7 @@
               <span class="addon__n">06</span>
               <div class="addon__head"><h3>Google CSS</h3><p>Op til 20% billigere klik på dine Google Shopping-annoncer.</p></div>
               <div class="addon__price">49 kr./md.</div>
-              <ul><li><span class="check" aria-hidden="true">✓</span>Webleads som din CSS</li><li><span class="check" aria-hidden="true">✓</span>Hele buddet tæller i auktionen</li><li><span class="check" aria-hidden="true">✓</span>Shopping og Performance Max</li></ul>
+              <ul><li><span class="check" aria-hidden="true">✓</span>Vores egen CSS: Webleads Shopping</li><li><span class="check" aria-hidden="true">✓</span>Hele buddet tæller i auktionen</li><li><span class="check" aria-hidden="true">✓</span>Shopping og Performance Max</li></ul>
               <div class="addon__actions">
                 <button type="button" class="addon__toggle" data-toggle="Google CSS" data-burst aria-pressed="false">+ Tilføj</button>
                 <a class="addon__more" href="/services/google-css" aria-label="Læs mere om Google CSS" data-event="Services: Google CSS">Læs mere →</a>

diff --git a/services/ai/index.html b/services/ai/index.html
@@ -498,7 +498,7 @@
               <span class="addon__n">06</span>
               <div class="addon__head"><h3>Google CSS</h3><p>Op til 20% billigere klik på dine Google Shopping-annoncer.</p></div>
               <div class="addon__price">49 kr./md.</div>
-              <ul><li><span class="check" aria-hidden="true">✓</span>Webleads som din CSS</li><li><span class="check" aria-hidden="true">✓</span>Hele buddet tæller i auktionen</li><li><span class="check" aria-hidden="true">✓</span>Shopping og Performance Max</li></ul>
+              <ul><li><span class="check" aria-hidden="true">✓</span>Vores egen CSS: Webleads Shopping</li><li><span class="check" aria-hidden="true">✓</span>Hele buddet tæller i auktionen</li><li><span class="check" aria-hidden="true">✓</span>Shopping og Performance Max</li></ul>
               <div class="addon__actions">
                 <button type="button" class="addon__toggle" data-toggle="Google CSS" data-burst aria-pressed="false">+ Tilføj</button>
                 <a class="addon__more" href="/services/google-css" aria-label="Læs mere om Google CSS" data-event="Services: Google CSS">Læs mere →</a>

diff --git a/services/app-udvikling/index.html b/services/app-udvikling/index.html
@@ -584,7 +584,7 @@
               <span class="addon__n">06</span>
               <div class="addon__head"><h3>Google CSS</h3><p>Op til 20% billigere klik på dine Google Shopping-annoncer.</p></div>
               <div class="addon__price">49 kr./md.</div>
-              <ul><li><span class="check" aria-hidden="true">✓</span>Webleads som din CSS</li><li><span class="check" aria-hidden="true">✓</span>Hele buddet tæller i auktionen</li><li><span class="check" aria-hidden="true">✓</span>Shopping og Performance Max</li></ul>
+              <ul><li><span class="check" aria-hidden="true">✓</span>Vores egen CSS: Webleads Shopping</li><li><span class="check" aria-hidden="true">✓</span>Hele buddet tæller i auktionen</li><li><span class="check" aria-hidden="true">✓</span>Shopping og Performance Max</li></ul>
               <div class="addon__actions">
                 <button type="button" class="addon__toggle" data-toggle="Google CSS" data-burst aria-pressed="false">+ Tilføj</button>
                 <a class="addon__more" href="/services/google-css" aria-label="Læs mere om Google CSS" data-event="Services: Google CSS">Læs mere →</a>

diff --git a/services/cro/index.html b/services/cro/index.html
@@ -476,7 +476,7 @@
               <span class="addon__n">06</span>
               <div class="addon__head"><h3>Google CSS</h3><p>Op til 20% billigere klik på dine Google Shopping-annoncer.</p></div>
               <div class="addon__price">49 kr./md.</div>
-              <ul><li><span class="check" aria-hidden="true">✓</span>Webleads som din CSS</li><li><span class="check" aria-hidden="true">✓</span>Hele buddet tæller i auktionen</li><li><span class="check" aria-hidden="true">✓</span>Shopping og Performance Max</li></ul>
+              <ul><li><span class="check" aria-hidden="true">✓</span>Vores egen CSS: Webleads Shopping</li><li><span class="check" aria-hidden="true">✓</span>Hele buddet tæller i auktionen</li><li><span class="check" aria-hidden="true">✓</span>Shopping og Performance Max</li></ul>
               <div class="addon__actions">
                 <button type="button" class="addon__toggle" data-toggle="Google CSS" data-burst aria-pressed="false">+ Tilføj</button>
                 <a class="addon__more" href="/services/google-css" aria-label="Læs mere om Google CSS" data-event="Services: Google CSS">Læs mere →</a>

diff --git a/services/geo/index.html b/services/geo/index.html
@@ -494,7 +494,7 @@
               <span class="addon__n">06</span>
               <div class="addon__head"><h3>Google CSS</h3><p>Op til 20% billigere klik på dine Google Shopping-annoncer.</p></div>
               <div class="addon__price">49 kr./md.</div>
-              <ul><li><span class="check" aria-hidden="true">✓</span>Webleads som din CSS</li><li><span class="check" aria-hidden="true">✓</span>Hele buddet tæller i auktionen</li><li><span class="check" aria-hidden="true">✓</span>Shopping og Performance Max</li></ul>
+              <ul><li><span class="check" aria-hidden="true">✓</span>Vores egen CSS: Webleads Shopping</li><li><span class="check" aria-hidden="true">✓</span>Hele buddet tæller i auktionen</li><li><span class="check" aria-hidden="true">✓</span>Shopping og Performance Max</li></ul>
               <div class="addon__actions">
                 <button type="button" class="addon__toggle" data-toggle="Google CSS" data-burst aria-pressed="false">+ Tilføj</button>
                 <a class="addon__more" href="/services/google-css" aria-label="Læs mere om Google CSS" data-event="Services: Google CSS">Læs mere →</a>

diff --git a/services/interne-systemer/index.html b/services/interne-systemer/index.html
@@ -554,7 +554,7 @@
               <span class="addon__n">06</span>
               <div class="addon__head"><h3>Google CSS</h3><p>Op til 20% billigere klik på dine Google Shopping-annoncer.</p></div>
               <div class="addon__price">49 kr./md.</div>
-              <ul><li><span class="check" aria-hidden="true">✓</span>Webleads som din CSS</li><li><span class="check" aria-hidden="true">✓</span>Hele buddet tæller i auktionen</li><li><span class="check" aria-hidden="true">✓</span>Shopping og Performance Max</li></ul>
+              <ul><li><span class="check" aria-hidden="true">✓</span>Vores egen CSS: Webleads Shopping</li><li><span class="check" aria-hidden="true">✓</span>Hele buddet tæller i auktionen</li><li><span class="check" aria-hidden="true">✓</span>Shopping og Performance Max</li></ul>
               <div class="addon__actions">
                 <button type="button" class="addon__toggle" data-toggle="Google CSS" data-burst aria-pressed="false">+ Tilføj</button>
                 <a class="addon__more" href="/services/google-css" aria-label="Læs mere om Google CSS" data-event="Services: Google CSS">Læs mere →</a>

diff --git a/services/meta-ads/index.html b/services/meta-ads/index.html
@@ -619,7 +619,7 @@
               <span class="addon__n">05</span>
               <div class="addon__head"><h3>Google CSS</h3><p>Op til 20% billigere klik på dine Google Shopping-annoncer.</p></div>
               <div class="addon__price">49 kr./md.</div>
-              <ul><li><span class="check" aria-hidden="true">✓</span>Webleads som din CSS</li><li><span class="check" aria-hidden="true">✓</span>Hele buddet tæller i auktionen</li><li><span class="check" aria-hidden="true">✓</span>Shopping og Performance Max</li></ul>
+              <ul><li><span class="check" aria-hidden="true">✓</span>Vores egen CSS: Webleads Shopping</li><li><span class="check" aria-hidden="true">✓</span>Hele buddet tæller i auktionen</li><li><span class="check" aria-hidden="true">✓</span>Shopping og Performance Max</li></ul>
               <div class="addon__actions">
                 <button type="button" class="addon__toggle" data-toggle="Google CSS" data-burst aria-pressed="false">+ Tilføj</button>
                 <a class="addon__more" href="/services/google-css" aria-label="Læs mere om Google CSS" data-event="Services: Google CSS">Læs mere →</a>

diff --git a/assets/js/content.js b/assets/js/content.js
@@ -115,7 +115,7 @@ export const ballInfo = {
   'Booking': ['Lad kunderne booke tid direkte på siden, døgnet rundt.', 'addon-systemer'],
   'CRM': ['Samlet overblik over dine kunder, aftaler og historik.', 'link:/services/interne-systemer'],
   'Dashboards': ['Se de vigtigste tal for din virksomhed på én skærm.', 'link:/services/interne-systemer'],
-  'Google CSS': ['Lad dine Shopping-annoncer gå gennem Webleads som CSS, så hele dit bud tæller. 49 kr. om måneden.', 'link:/services/google-css'],
+  'Google CSS': ['Lad dine Shopping-annoncer gå gennem vores egen CSS, Webleads Shopping, så hele dit bud tæller. 49 kr. om måneden.', 'link:/services/google-css'],
   'Google-profil': ['Vi opretter eller opdaterer din profil, så du ses på Google Maps.', 'inc-Google-profil'],
   'Webshop': ['Webshop på Shopify fra 12.995 kr. Beregn selv prisen på din shop.', 'link:/services/webshop'],
   'Video': ['Reklamevideoer, explainer-videoer og motion graphics, der fanger på sekunder.', 'link:/services/video'],
